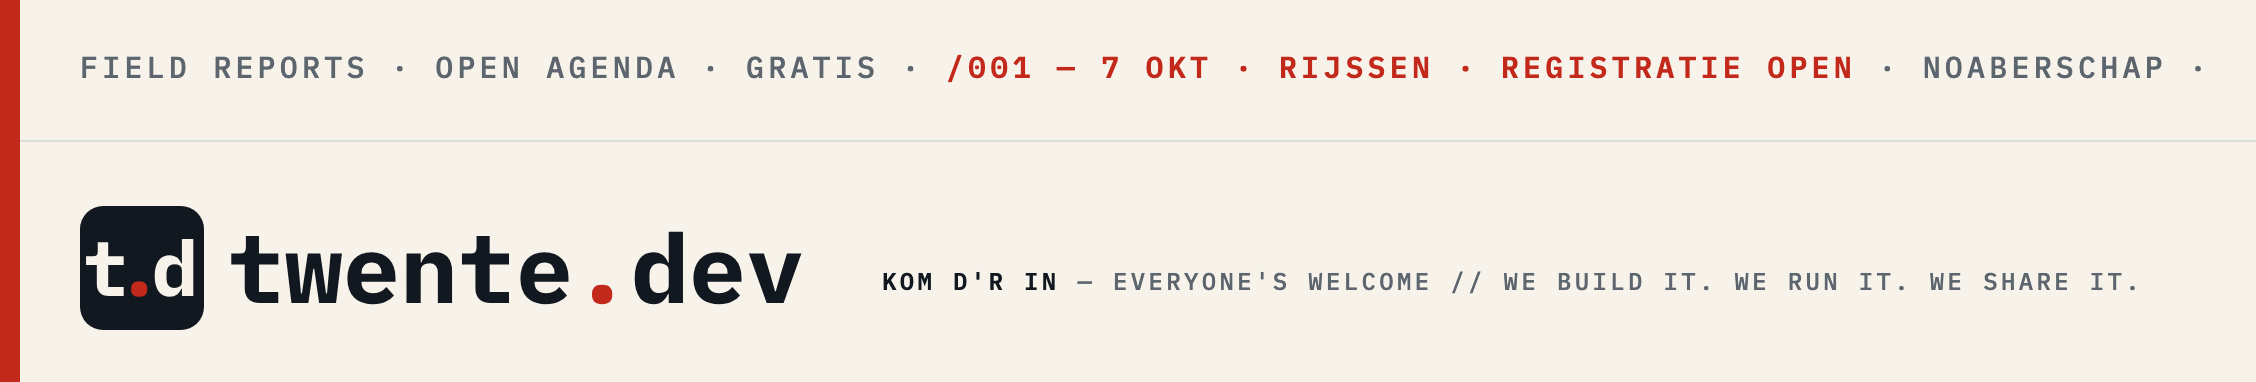
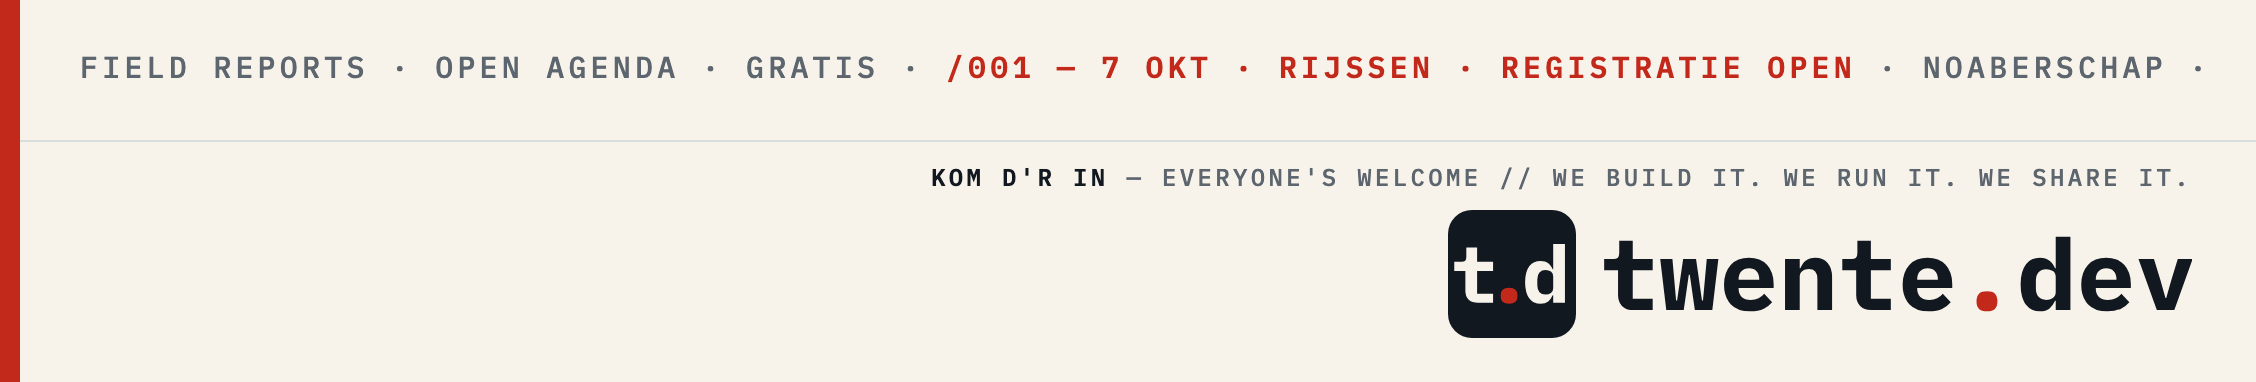
fix(brand): vertrekbord vrij van het LinkedIn-paginalogo
De bedrijfspagina legt het paginalogo linksonder óver de banner heen —
de lockup werd 'e.dev'. Compositie nu conform de terminal-bannerregel:
lockup groot rechtsonder, tagline rechts uitgelijnd erboven; linksonder
blijft bewust leeg voor het logo. Veilige zone in het runbook genoteerd.

Changed region(s): [[0.031, 0.5183, 0.9929, 0.8927], [0.4034, 0.4319, 0.9619, 0.4895]]

diff --git a/docs/brand/templates/banners.html b/docs/brand/templates/banners.html
@@ -174,14 +174,37 @@
         text-transform: uppercase;
         font-weight: 500;
       }
-      .ticker span { color: var(--subtle); }
-      .ticker b { font-weight: 600; color: var(--ink); }
-      .ticker i { font-style: normal; color: var(--red); font-weight: 600; }
-      .nacht .ticker span { color: var(--d-subtle); }
-      .nacht .ticker b { color: var(--paper); }
-      .nacht .ticker i { color: var(--red-lt); }
-      .rule { position: absolute; left: 0; right: 0; height: 1px; background: var(--grey); }
-      .nacht .rule { background: var(--d-line); }
+      .ticker span {
+        color: var(--subtle);
+      }
+      .ticker b {
+        font-weight: 600;
+        color: var(--ink);
+      }
+      .ticker i {
+        font-style: normal;
+        color: var(--red);
+        font-weight: 600;
+      }
+      .nacht .ticker span {
+        color: var(--d-subtle);
+      }
+      .nacht .ticker b {
+        color: var(--paper);
+      }
+      .nacht .ticker i {
+        color: var(--red-lt);
+      }
+      .rule {
+        position: absolute;
+        left: 0;
+        right: 0;
+        height: 1px;
+        background: var(--grey);
+      }
+      .nacht .rule {
+        background: var(--d-line);
+      }
     </style>
   </head>
   <body>
@@ -483,17 +506,32 @@
       </div>
     </div>
 
-
     <!-- ===== vertrekbord · linkedin-bedrijfspagina 5.9:1 · licht ===== -->
     <div class="art a59" data-export="banner-vertrekbord-1128x191@2x">
       <div class="stage" style="width: 1128px; height: 191px">
         <span class="edge" style="width: 10px"></span>
-        <div class="ticker" style="left: 40px; right: 24px; top: 24px; font-size: 15px"><span>FIELD REPORTS · OPEN AGENDA · GRATIS · </span><i data-ticker-live></i><span> · NOABERSCHAP · FIELD REPORTS · OPEN AGENDA</span></div>
+        <div class="ticker" style="left: 40px; right: 24px; top: 24px; font-size: 15px">
+          <span>FIELD REPORTS · OPEN AGENDA · GRATIS · </span><i data-ticker-live></i
+          ><span> · NOABERSCHAP · FIELD REPORTS · OPEN AGENDA</span>
+        </div>
         <div class="rule" style="top: 70px"></div>
-        <div class="lk" style="left: 40px; bottom: 26px; height: 62px">
+        <div
+          class="ticker"
+          style="
+            left: 320px;
+            right: 32px;
+            bottom: 96px;
+            font-size: 12px;
+            line-height: 1;
+            text-align: right;
+          "
+        >
+          <b>kom d'r in</b
+          ><span> — everyone's welcome // we build it. we run it. we share it.</span>
+        </div>
+        <div class="lk" style="right: 32px; bottom: 22px; height: 64px">
           <svg viewBox="0 0 930.837 160"><use href="#lock-ink" /></svg>
         </div>
-        <div class="ticker" style="left: 441px; right: 24px; bottom: 44px; font-size: 12px; line-height: 1"><b>kom d'r in</b><span> — everyone's welcome // we build it. we run it. we share it.</span></div>
       </div>
     </div>
 
@@ -501,12 +539,28 @@
     <div class="art nacht a59" data-export="banner-vertrekbord-nacht-1128x191@2x">
       <div class="stage" style="width: 1128px; height: 191px">
         <span class="edge" style="width: 10px"></span>
-        <div class="ticker" style="left: 40px; right: 24px; top: 24px; font-size: 15px"><span>FIELD REPORTS · OPEN AGENDA · GRATIS · </span><i data-ticker-live></i><span> · NOABERSCHAP · FIELD REPORTS · OPEN AGENDA</span></div>
+        <div class="ticker" style="left: 40px; right: 24px; top: 24px; font-size: 15px">
+          <span>FIELD REPORTS · OPEN AGENDA · GRATIS · </span><i data-ticker-live></i
+          ><span> · NOABERSCHAP · FIELD REPORTS · OPEN AGENDA</span>
+        </div>
         <div class="rule" style="top: 70px"></div>
-        <div class="lk" style="left: 40px; bottom: 26px; height: 62px">
+        <div
+          class="ticker"
+          style="
+            left: 320px;
+            right: 32px;
+            bottom: 96px;
+            font-size: 12px;
+            line-height: 1;
+            text-align: right;
+          "
+        >
+          <b>kom d'r in</b
+          ><span> — everyone's welcome // we build it. we run it. we share it.</span>
+        </div>
+        <div class="lk" style="right: 32px; bottom: 22px; height: 64px">
           <svg viewBox="0 0 930.837 160"><use href="#lock-paper" /></svg>
         </div>
-        <div class="ticker" style="left: 441px; right: 24px; bottom: 44px; font-size: 12px; line-height: 1"><b>kom d'r in</b><span> — everyone's welcome // we build it. we run it. we share it.</span></div>
       </div>
     </div>
 

diff --git a/docs/runbooks/editie-banners.md b/docs/runbooks/editie-banners.md
@@ -29,22 +29,22 @@ export is reproduceerbaar.
 | `banner-commitlog-…`                  | generieke header: echt-saaie commits, één eerlijke echte hash                                                          | zelden — alleen als de log-inhoud veroudert                         |
 | `banner-NNN-statusbord-…`             | de editie-announce: `systemctl status editie@NNN` met beide sprekers                                                   | zodra beide sprekers bevestigd zijn (T−4)                           |
 | `banner-meetup[-NNN][-nacht]-…`       | de covers uit `cover-16x9.html`, in licht én nacht                                                                     | per editie: tekst in de template bijwerken (contenteditable-velden) |
-| `banner-vertrekbord[-nacht]-…` | LinkedIn-bedrijfspagina: ticker met de waarborgen en de rode editie-regel | bij elke nieuwe editie (regel verspringt mee) |
+| `banner-vertrekbord[-nacht]-…`        | LinkedIn-bedrijfspagina: ticker met de waarborgen en de rode editie-regel                                              | bij elke nieuwe editie (regel verspringt mee)                       |
 
 ## Wat upload je waar
 
-| Platform                       | Bestand                                        | Opmerking                                                                                                           |
-| ------------------------------ | ---------------------------------------------- | ------------------------------------------------------------------------------------------------------------------- |
-| X — header                     | `banner-omloop-nacht-nl-1500x500@2x.png`       | of `-en` / `-dag` naar smaak; één 3:1-bestand dient X, Bluesky én Mastodon                                          |
-| Bluesky — banner               | zelfde 3:1-bestand                             | avatar overlapt linksonder — daarom is die hoek leeg                                                                |
-| Mastodon — header              | zelfde 3:1-bestand                             |                                                                                                                     |
-| LinkedIn — persoonlijk profiel | `banner-omloop-{dag,nacht}-nl-1584x396@2x.png` | 4:1; compositie rechts omdat je profielfoto links staat                                                             |
-| LinkedIn — bedrijfspagina | `banner-vertrekbord[-nacht]-1128x191@2x.png` | 5.9:1 vertrekbord-ticker; de rode regel (editie + registratie) komt uit het `EDITIE`-blok |
-| Meetup — groepsfoto            | `banner-omloop-dag-nl-1200x675@2x.png`         | de event-cover per editie is `banner-meetup-NNN[-nacht]-…` (licht en donker beschikbaar)                            |
-| Discord — serverbanner         | `banner-omloop-nacht-nl-1200x675@2x.png`       | 16:9                                                                                                                |
-| Facebook — paginacover         | `banner-omloop-dag-nl-820x462@2x.png`          | alles wezenlijks staat in het mobiel-veilige midden                                                                 |
-| YouTube — kanaalkunst          | — nog te bouwen                                | 2560×1440 met veilige strook; ontwerp wacht op keuze                                                                |
-| Announce-post (alle kanalen)   | `banner-NNN-statusbord-…`                      | geen header maar een post-afbeelding: 16:9 voor feeds, 4:1 voor LinkedIn, 3:1 als tijdelijke header in campagnetijd |
+| Platform                       | Bestand                                        | Opmerking                                                                                                                                                                                                                     |
+| ------------------------------ | ---------------------------------------------- | ----------------------------------------------------------------------------------------------------------------------------------------------------------------------------------------------------------------------------- |
+| X — header                     | `banner-omloop-nacht-nl-1500x500@2x.png`       | of `-en` / `-dag` naar smaak; één 3:1-bestand dient X, Bluesky én Mastodon                                                                                                                                                    |
+| Bluesky — banner               | zelfde 3:1-bestand                             | avatar overlapt linksonder — daarom is die hoek leeg                                                                                                                                                                          |
+| Mastodon — header              | zelfde 3:1-bestand                             |                                                                                                                                                                                                                               |
+| LinkedIn — persoonlijk profiel | `banner-omloop-{dag,nacht}-nl-1584x396@2x.png` | 4:1; compositie rechts omdat je profielfoto links staat                                                                                                                                                                       |
+| LinkedIn — bedrijfspagina      | `banner-vertrekbord[-nacht]-1128x191@2x.png`   | 5.9:1 vertrekbord-ticker; de rode regel (editie + registratie) komt uit het `EDITIE`-blok. Linksonder blijft leeg: het paginalogo overlapt daar de banner (x ≈ 60–290 van het 1128-ontwerp) — lockup staat daarom rechtsonder |
+| Meetup — groepsfoto            | `banner-omloop-dag-nl-1200x675@2x.png`         | de event-cover per editie is `banner-meetup-NNN[-nacht]-…` (licht en donker beschikbaar)                                                                                                                                      |
+| Discord — serverbanner         | `banner-omloop-nacht-nl-1200x675@2x.png`       | 16:9                                                                                                                                                                                                                          |
+| Facebook — paginacover         | `banner-omloop-dag-nl-820x462@2x.png`          | alles wezenlijks staat in het mobiel-veilige midden                                                                                                                                                                           |
+| YouTube — kanaalkunst          | — nog te bouwen                                | 2560×1440 met veilige strook; ontwerp wacht op keuze                                                                                                                                                                          |
+| Announce-post (alle kanalen)   | `banner-NNN-statusbord-…`                      | geen header maar een post-afbeelding: 16:9 voor feeds, 4:1 voor LinkedIn, 3:1 als tijdelijke header in campagnetijd                                                                                                           |
 
 ## Nieuwe editie, stap voor stap
 
